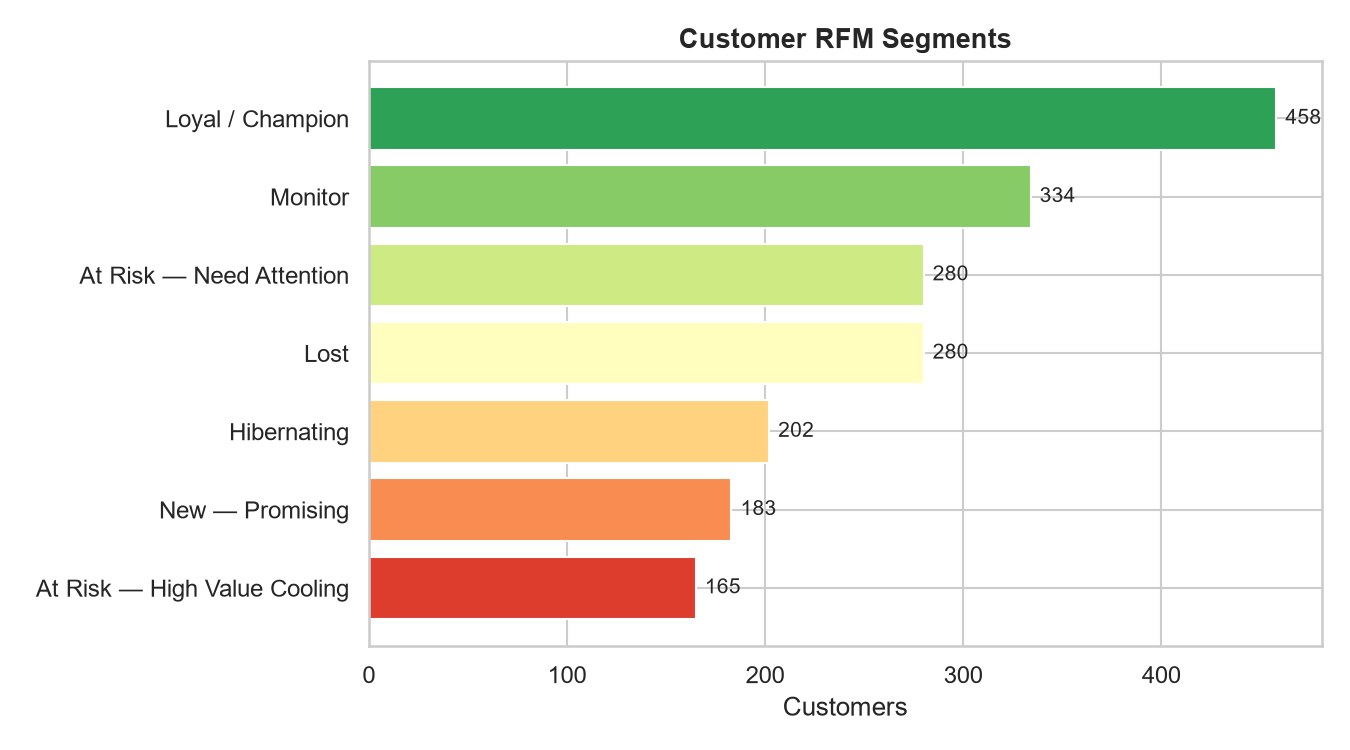
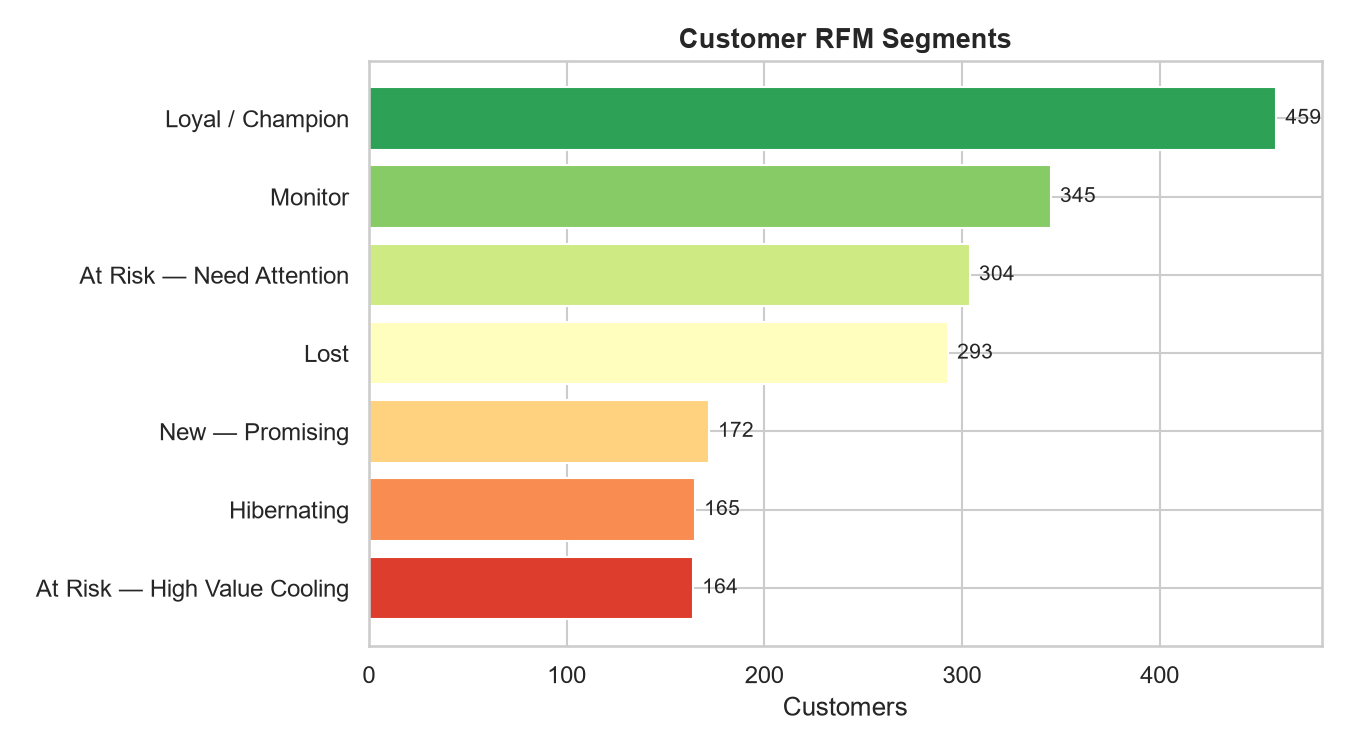
Break NTILE ties by customer_id so RFM segment counts are deterministic
Many customers share the same order count, so NTILE bucket boundaries
depended on execution order and differed between Windows and Linux CI.

Claude-Session: https://claude.ai/code/session_011YF6mmmFxp32gHWY3xiP6z

diff --git a/tests/test_numbers.py b/tests/test_numbers.py
@@ -28,6 +28,8 @@ def test_readme_pipeline_numbers_match_metrics():
     assert f"{METRICS['category_revenue_share_pct']['Electronics']}% of net revenue" in README
     assert f"${METRICS['aov_mean']:,.2f}" in README and f"${METRICS['aov_median']:,.2f}" in README
     assert f"{METRICS['customers_with_revenue']:,} customers with revenue" in README
+    cooling = METRICS["rfm_segment_counts"]["At Risk — High Value Cooling"]
+    assert f'{cooling} fall in "At Risk' in README
 
 
 def test_readme_benchmark_numbers_match_json():
@@ -88,7 +90,7 @@ def test_rfm_scores_point_the_right_way(tmp_path):
 
     # The pipeline's own query must use the same directions.
     src = (ROOT / "analysis" / "run_analytics.py").read_text(encoding="utf-8")
-    assert "ORDER BY recency_days DESC) AS r_score" in src
+    assert "ORDER BY recency_days DESC, customer_id) AS r_score" in src
     churn = (ROOT / "queries" / "advanced" / "10_churn_prediction.sql").read_text(encoding="utf-8")
     assert "ORDER BY days_since_last_order DESC" in churn
     counts = run_analytics.chart_rfm_segments(con, str(tmp_path))

diff --git a/analysis/run_analytics.py b/analysis/run_analytics.py
@@ -320,9 +320,9 @@ def chart_rfm_segments(con, out):  # returns segment counts
         ),
         scored AS (
           SELECT *,
-                 NTILE(5) OVER (ORDER BY recency_days DESC) AS r_score,
-                 NTILE(5) OVER (ORDER BY frequency  ASC)  AS f_score,
-                 NTILE(5) OVER (ORDER BY monetary   ASC)  AS m_score
+                 NTILE(5) OVER (ORDER BY recency_days DESC, customer_id) AS r_score,
+                 NTILE(5) OVER (ORDER BY frequency  ASC, customer_id)  AS f_score,
+                 NTILE(5) OVER (ORDER BY monetary   ASC, customer_id)  AS m_score
           FROM rfm
         )
         SELECT

diff --git a/README.md b/README.md
@@ -88,7 +88,7 @@ Q4 is 34.2% of annual revenue (Q1: 16.6%), following the month weights in the ge
 
 ![RFM segments](analysis/outputs/04_rfm_segments.png)
 
-Distribution across the RFM labels from the churn query (1,902 customers with revenue). 165 fall in "At Risk — High Value Cooling": recency in the middle quintile or older, monetary value in the top two quintiles. (An earlier version of this query had the NTILE directions inverted, so it labeled the most recent, most frequent customers as "Lost"; fixed in `10_churn_prediction.sql` and the pipeline.)
+Distribution across the RFM labels from the churn query (1,902 customers with revenue). 164 fall in "At Risk — High Value Cooling": recency in the middle quintile or older, monetary value in the top two quintiles. (An earlier version of this query had the NTILE directions inverted, so it labeled the most recent, most frequent customers as "Lost"; fixed in `10_churn_prediction.sql` and the pipeline.)
 
 ![State × category heatmap](analysis/outputs/05_state_category_heatmap.png)
 

diff --git a/analysis/findings.md b/analysis/findings.md
@@ -41,8 +41,8 @@ Mean order value $1,047.62 vs median $644.78: right-skewed, so report the median
 
 | Segment label | Net revenue per customer |
 |---|---|
-| Regular | $5,829 |
 | VIP | $4,809 |
+| Regular | $5,829 |
 | Premium | $7,492 |
 
 Segment labels are assigned at random in the generator, independent of purchasing, so they do not separate
@@ -52,13 +52,13 @@ spend. (An earlier version claimed "VIP customers spend 3.2x more"; the data doe
 
 | Segment | Customers |
 |---|---|
-| Loyal / Champion | 458 |
-| Monitor | 334 |
-| At Risk — Need Attention | 280 |
-| Lost | 280 |
-| Hibernating | 202 |
-| New — Promising | 183 |
-| At Risk — High Value Cooling | 165 |
+| Loyal / Champion | 459 |
+| Monitor | 345 |
+| At Risk — Need Attention | 304 |
+| Lost | 293 |
+| New — Promising | 172 |
+| Hibernating | 165 |
+| At Risk — High Value Cooling | 164 |
 
 ## 7. Geography
 
